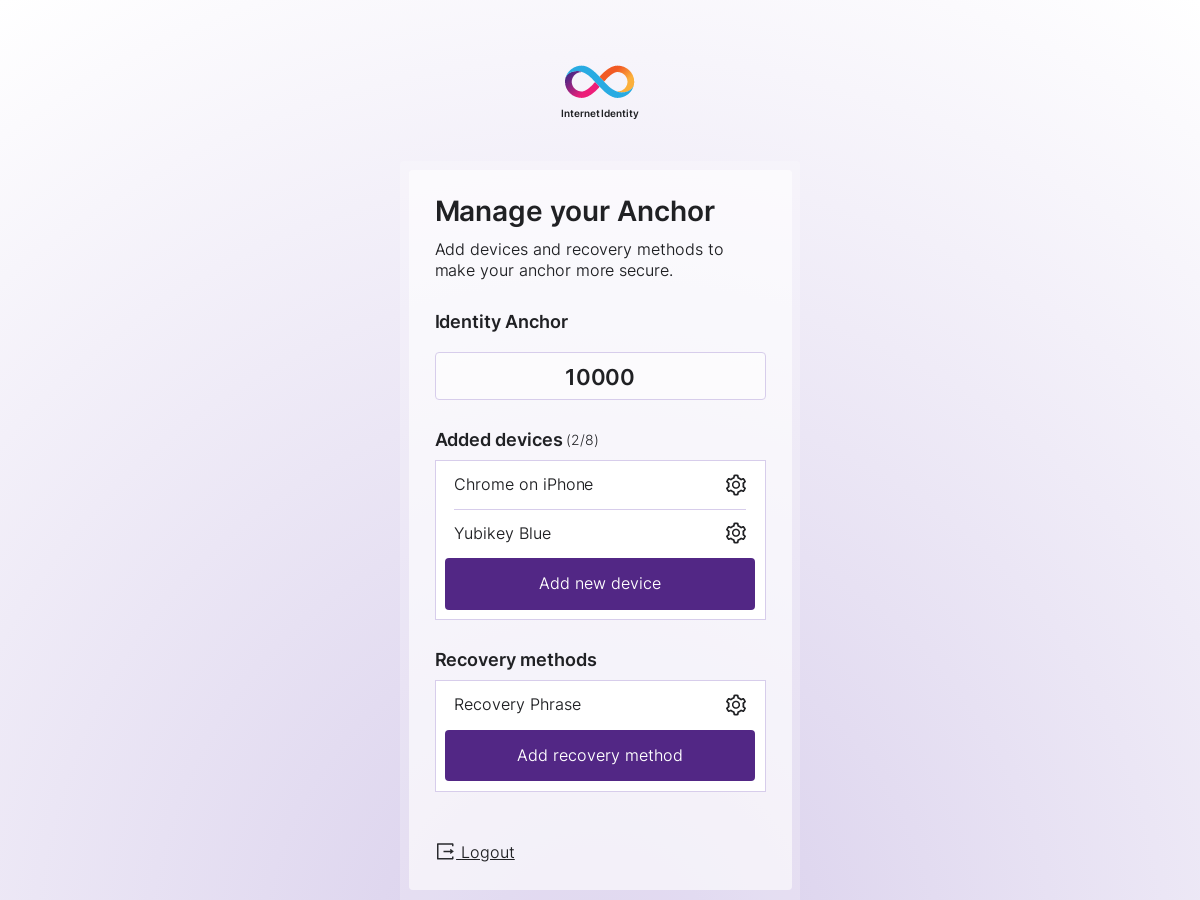
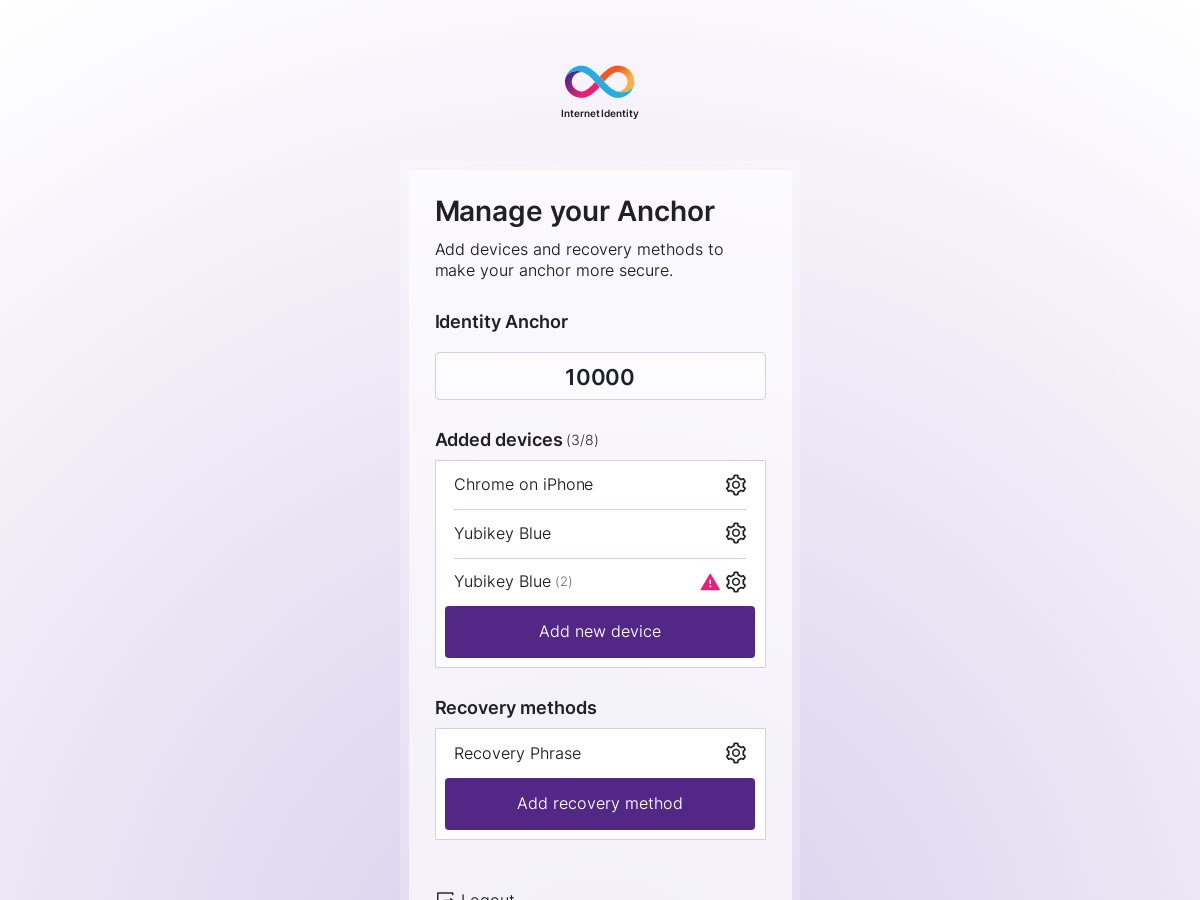
Clarify device origin on management page (#1255)
* Show bad origin information

* Dedup devices and warn on bad origin

* 🤖 Selenium screenshots auto-update

* Make sure tooltips are focusable and visible on focus

* Add the concept of an icon (for device warning)

* Add muted text

* 🤖 Selenium screenshots auto-update

* 🤖 Selenium screenshots auto-update

* Add better domain warnings

* Fix test selectors

* Update copy on warnings

* Fixup

---------

Changed region(s): [[0.3392, 0.7778, 0.6475, 0.9644], [0.3392, 0.6222, 0.6475, 0.7467], [0.37, 0.9956, 0.4317, 1.0]]

diff --git a/src/frontend/src/flows/manage/index.ts b/src/frontend/src/flows/manage/index.ts
@@ -36,7 +36,12 @@ export type Device = {
   // recovery devices handle aliases differently.
   label: string;
   isRecovery: boolean;
+  warn?: TemplateResult;
 };
+
+// A device with extra information about whether another device (earlier in the list)
+// has the same name.
+export type DedupDevice = Device & { dupCount?: number };
 
 /* Template for the authbox when authenticating to II */
 export const authnTemplateManage = (): AuthnTemplates => {
@@ -154,6 +159,20 @@ const anchorSection = (userNumber: bigint): TemplateResult => html`
   </aside>
 `;
 
+// Deduplicate devices with same (duplicated) labels
+const dedupLabels = (authenticators: Device[]): DedupDevice[] => {
+  return authenticators.reduce<Device[]>((acc, authenticator) => {
+    const _authenticator: DedupDevice = { ...authenticator };
+    const sameName = acc.filter((a) => a.label === _authenticator.label);
+    if (sameName.length >= 1) {
+      _authenticator.dupCount = sameName.length + 1;
+    }
+
+    acc.push(_authenticator);
+    return acc;
+  }, []);
+};
+
 // The regular, "authenticator" devices
 const devicesSection = ({
   authenticators,
@@ -169,6 +188,8 @@ const devicesSection = ({
     wrapClasses.push("c-card", "c-card--narrow", "c-card--warning");
   }
 
+  const _authenticators = dedupLabels(authenticators);
+
   return html`
     <aside class="${wrapClasses.join(" ")}">
       ${
@@ -181,11 +202,11 @@ const devicesSection = ({
       <div class="${isWarning === true ? "c-card__content" : undefined}">
         <div class="t-title t-title--complications">
           <h2 class="t-title">Added devices</h2>
-          <span class="t-title__complication c-tooltip">
+          <span class="t-title__complication c-tooltip" tabindex="0">
             <span class="c-tooltip__message c-card c-card--narrow">
               You can register up to ${MAX_AUTHENTICATORS} authenticator
               devices (recovery devices excluded)</span>
-              (${authenticators.length}/${MAX_AUTHENTICATORS})
+              (${_authenticators.length}/${MAX_AUTHENTICATORS})
             </span>
           </span>
         </div>
@@ -201,7 +222,7 @@ const devicesSection = ({
         <div class="c-action-list">
           <div id="deviceList">
           <ul>
-          ${authenticators.map((device) => {
+          ${_authenticators.map((device) => {
             return html`
               <li class="c-action-list__item">
                 ${deviceListItem({
@@ -213,7 +234,7 @@ const devicesSection = ({
           </div>
           <div class="c-action-list__actions">
             <button
-              ?disabled=${authenticators.length >= MAX_AUTHENTICATORS}
+              ?disabled=${_authenticators.length >= MAX_AUTHENTICATORS}
               class="c-button c-button--primary c-tooltip c-tooltip--onDisabled"
               @click="${async () => onAddDevice(await chooseDeviceAddFlow())}"
               id="addAdditionalDevice"
@@ -275,11 +296,27 @@ const recoverySection = ({
   `;
 };
 
-const deviceListItem = ({ device }: { device: Device }) => {
+const deviceListItem = ({ device }: { device: DedupDevice }) => {
   return html`
-    <div class="c-action-list__label">${device.label}</div>
+    <div class="c-action-list__label" device=${device.label}>
+      ${device.label}
+      ${device.dupCount !== undefined && device.dupCount > 0
+        ? html`<i class="t-muted">&nbsp;(${device.dupCount})</i>`
+        : undefined}
+    </div>
+    ${device.warn !== undefined
+      ? html`<div class="c-action-list__action">
+          <span class="c-tooltip c-icon c-icon--warning" tabindex="0"
+            >${warningIcon}<span
+              class="c-tooltip__message c-card c-card--narrow"
+              >${device.warn}</span
+            ></span
+          >
+        </div>`
+      : undefined}
     <button
       type="button"
+      device=${device.label}
       aria-label="settings"
       data-action="settings"
       class="c-action-list__action"
@@ -361,6 +398,7 @@ export const displayManage = (
       ? recoveryDeviceToLabel(device)
       : device.alias,
     isRecovery: isRecoveryDevice(device),
+    warn: domainWarning(device),
   }));
 
   displayManagePage({
@@ -411,9 +449,49 @@ export const displayManage = (
   }
 };
 
+// Show a domain-related warning, if necessary.
+const domainWarning = (device: DeviceData): TemplateResult | undefined => {
+  // Recovery phrases are not FIDO devices, meaning they are not tied to a particular origin (unless most authenticators like TouchID, etc, and e.g. recovery _devices_ in the case of YubiKeys and the like)
+  if (isRecoveryPhrase(device)) {
+    return undefined;
+  }
+
+  // XXX: work around didc-generated oddities in types
+  const deviceOrigin =
+    device.origin.length === 0 ? undefined : device.origin[0];
+
+  // If this is the _old_ II (ic0.app) and no origin was recorded, then we can't infer much and don't show a warning.
+  if (window.origin === LEGACY_II_URL && deviceOrigin === undefined) {
+    return undefined;
+  }
+
+  // If this is the _old_ II (ic0.app) and the device has an origin that is _not_ ic0.app, then the device was probably migrated and can't be used on ic0.app anymore.
+  if (window.origin === LEGACY_II_URL && deviceOrigin !== window.origin) {
+    return html`This device may not be usable on the current URL
+    (${window.origin})`;
+  }
+
+  // In general, if this is _not_ the _old_ II, then it's most likely the _new_ II, meaning all devices should have an origin attached.
+  if (deviceOrigin === undefined) {
+    return html`This device may not be usable on the current URL
+    (${window.origin})`;
+  }
+
+  // Finally, in general if the device has an origin but this is not _this_ origin, we issue a warning
+  if (deviceOrigin !== window.origin) {
+    return html`This device may not be usable on the current URL
+    (${window.origin})`;
+  }
+
+  return undefined;
+};
+
 // Whether the user has a recovery phrase or not
 const hasRecoveryPhrase = (devices: DeviceData[]): boolean =>
   devices.some((device) => device.alias === "Recovery phrase");
+
+const isRecoveryPhrase = (device: DeviceData): boolean =>
+  "seed_phrase" in device.key_type;
 
 const unknownError = (): Error => {
   return new Error("Unknown error");

diff --git a/src/frontend/src/styles/main.css b/src/frontend/src/styles/main.css
@@ -398,8 +398,14 @@ body {
   font-size: 1.5rem;
 }
 
+.t-muted {
+  color: var(--rc-text--disabled);
+  font-size: 0.8em;
+}
+
 .t-discreet {
   font-size: 0.8em;
+  vertical-align: baseline;
 }
 
 a,
@@ -508,6 +514,35 @@ a:hover,
 /**
  * Title with counter and Actions
  */
+
+/**
+ * Icon components
+ */
+.c-icon {
+  display: inline-block;
+  position: relative;
+  height: calc(1em * var(--vs-line-height));
+  aspect-ratio: 1;
+  vertical-align: middle;
+}
+
+.c-icon--block {
+  display: block;
+  height: auto;
+  aspect-ratio: none;
+}
+
+.c-icon svg {
+  position: absolute;
+  top: 50%;
+  left: 50%;
+  transform: translate(-50%, -50%);
+  width: 100%;
+}
+
+.c-icon--warning [fill] {
+  fill: var(--rc-warning);
+}
 
 /**
  * Card components
@@ -1223,12 +1258,20 @@ a:hover,
   position: relative;
 }
 
-.c-tooltip:hover .c-tooltip__message {
+.c-tooltip:focus {
+  outline: 1px solid var(--rc-button);
+  outline-offset: 2px;
+  border-radius: 2px;
+}
+
+.c-tooltip:hover .c-tooltip__message,
+.c-tooltip:focus .c-tooltip__message {
   visibility: visible;
   opacity: 1;
 }
 
-.c-tooltip--onDisabled:hover .c-tooltip__message {
+.c-tooltip--onDisabled:hover .c-tooltip__message,
+.c-tooltip--onDisabled:focus .c-tooltip__message {
   visibility: hidden;
   opacity: 0;
 }
@@ -1241,7 +1284,7 @@ a:hover,
 .c-tooltip__message {
   position: absolute;
   left: 0;
-
+  top: 100%;
   opacity: 0;
   color: var(--rc-text);
   visibility: hidden;

diff --git a/src/frontend/src/test-e2e/views.ts b/src/frontend/src/test-e2e/views.ts
@@ -155,13 +155,13 @@ export class MainView extends View {
 
   async waitForDeviceDisplay(deviceName: string): Promise<void> {
     await this.browser
-      .$(`//div[string()='${deviceName}']`)
+      .$(`//div[@device="${deviceName}"]`)
       .waitForDisplayed({ timeout: 10_000 });
   }
 
   async waitForDeviceNotDisplay(deviceName: string): Promise<void> {
     await this.browser
-      .$(`//div[string()='${deviceName}']`)
+      .$(`//div[@device="${deviceName}"]`)
       .waitForDisplayed({ timeout: 10_000, reverse: true });
   }
 
@@ -182,9 +182,7 @@ export class MainView extends View {
   }
 
   async deviceSettings(deviceName: string): Promise<void> {
-    await this.browser
-      .$(`//div[string()='${deviceName}']/following-sibling::button`)
-      .click();
+    await this.browser.$(`//button[@device="${deviceName}"]`).click();
   }
 }
 

diff --git a/src/frontend/src/showcase.ts b/src/frontend/src/showcase.ts
@@ -261,6 +261,12 @@ const iiPages: Record<string, () => void> = {
           isRecovery: false,
           openSettings: () => Promise.resolve(),
         },
+        {
+          label: "Yubikey Blue",
+          isRecovery: false,
+          openSettings: () => Promise.resolve(),
+          warn: html`Something is rotten in the state of Device`,
+        },
       ],
       recoveries: [
         {
